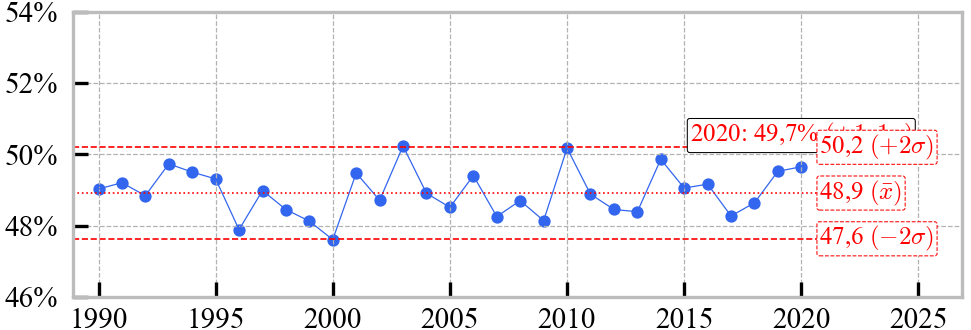
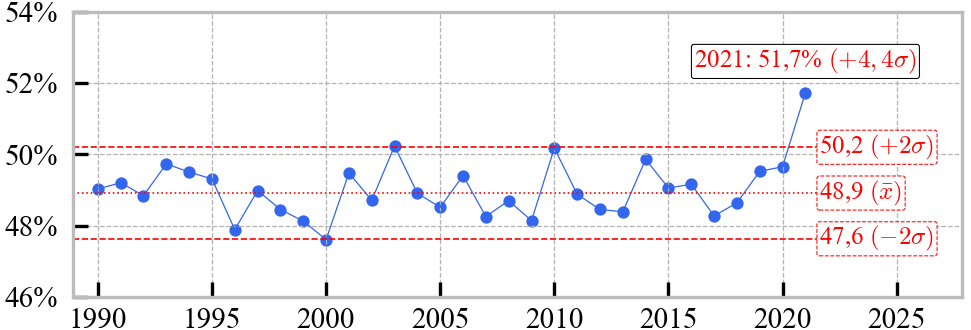
Fix

diff --git a/acm_analyzer.py b/acm_analyzer.py
@@ -2523,24 +2523,27 @@ def plot_processcontrol_deaths_by_halfyears(deaths_and_population_by_month):
     current_h1_counter = None
     current_h2_sum = None
     current_h2_counter = None
+    def _add_datapoint():
+        assert current_h1_sum is not None and current_h2_sum is not None
+        assert current_h1_sum > 0 and current_h2_sum > 0
+        assert current_h1_counter == 6, "Invalid h1 counter: %s" % (current_h1_counter,)
+        assert current_h2_counter == 6, "Invalid h2 counter: %s" % (current_h2_counter,)
+        data_date = datetime.date(current_year, 1, 1)
+        data_x = (data_date - T0_DATE).days
+        data_y = current_h2_sum / (current_h1_sum + current_h2_sum)
+        deaths_by_halfyears_x_list.append(data_x)
+        deaths_by_halfyears_x_date_list.append(data_date)
+        deaths_by_halfyears_y_list.append(data_y)
+        if data_date < T0_DATE:
+            dbhy_statistics_y.append(data_y)
+    month = None
     for month_item in deaths_and_population_by_month:
         year = month_item["year"]
         month = month_item["month"]
         deaths = month_item["deaths"]
         if month == 1:
             if current_year is not None:
-                assert current_h1_sum is not None and current_h2_sum is not None
-                assert current_h1_sum > 0 and current_h2_sum > 0
-                assert current_h1_counter == 6, "Invalid h1 counter: %s" % (current_h1_counter,)
-                assert current_h2_counter == 6, "Invalid h2 counter: %s" % (current_h2_counter,)
-                data_date = datetime.date(current_year, 1, 1)
-                data_x = (data_date - T0_DATE).days
-                data_y = current_h2_sum / (current_h1_sum + current_h2_sum)
-                deaths_by_halfyears_x_list.append(data_x)
-                deaths_by_halfyears_x_date_list.append(data_date)
-                deaths_by_halfyears_y_list.append(data_y)
-                if data_date < T0_DATE:
-                    dbhy_statistics_y.append(data_y)
+                _add_datapoint()
             current_year = year
             current_h1_sum = 0
             current_h1_counter = 0
@@ -2558,6 +2561,8 @@ def plot_processcontrol_deaths_by_halfyears(deaths_and_population_by_month):
             if current_h2_sum is not None:
                 current_h2_sum += deaths
                 current_h2_counter += 1
+    if current_year is not None and month == 12:
+        _add_datapoint()
     deaths_by_halfyears_x = numpy.array(deaths_by_halfyears_x_list)
     deaths_by_halfyears_x_date = numpy.array(deaths_by_halfyears_x_date_list)
     deaths_by_halfyears_y = numpy.array(deaths_by_halfyears_y_list)
